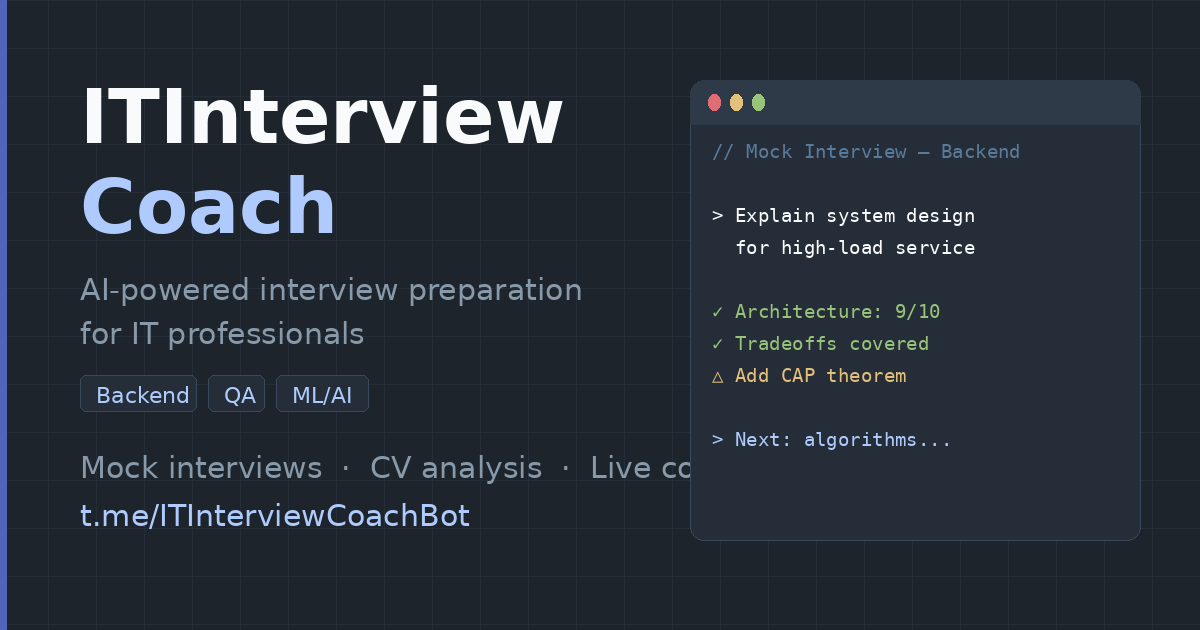
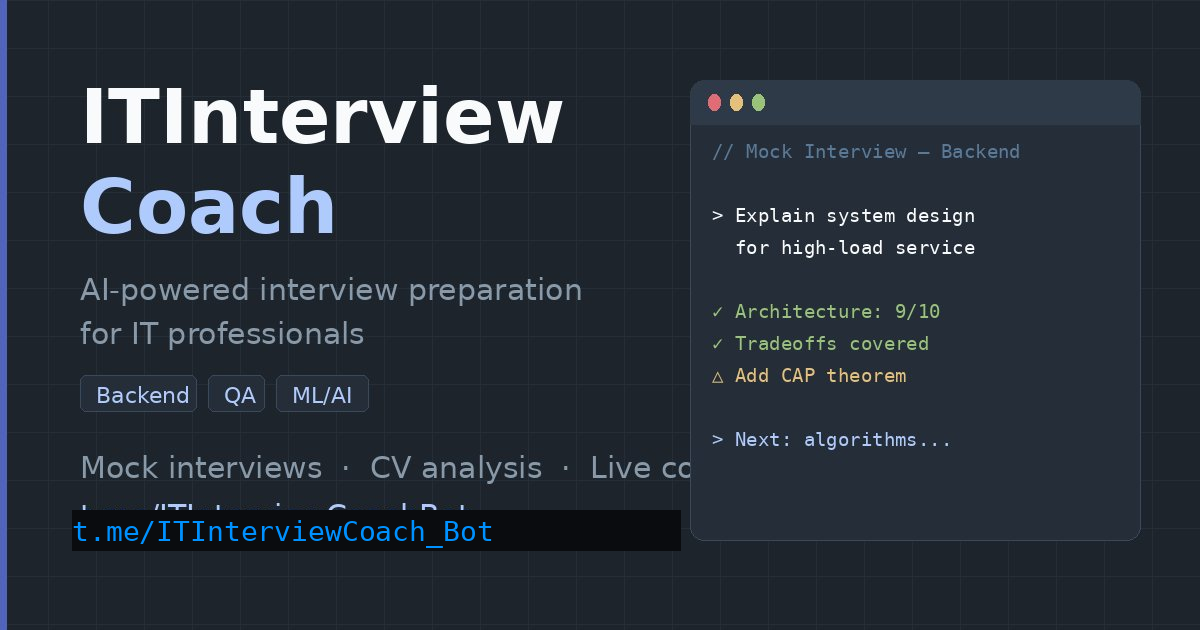
Add files via upload

diff --git a/index.html b/index.html
@@ -603,7 +603,7 @@
     A Telegram bot that prepares IT professionals for technical interviews — mock sessions, CV analysis, live coding practice, and LinkedIn auditing.
   </p>
   <div class="hero-cta">
-    <a href="https://t.me/ITInterviewCoachBot" class="btn-primary">
+    <a href="https://t.me/ITInterviewCoach_Bot" class="btn-primary">
       ▶ Start in Telegram
     </a>
     <a href="#pricing" class="btn-secondary">View Pricing</a>
@@ -704,7 +704,7 @@
         <li class="inactive">Voice input</li>
         <li class="inactive">LinkedIn audit</li>
       </ul>
-      <a href="https://t.me/ITInterviewCoachBot" class="plan-cta">Get Started</a>
+      <a href="https://t.me/ITInterviewCoach_Bot" class="plan-cta">Get Started</a>
     </div>
 
     <div class="plan">
@@ -719,7 +719,7 @@
         <li class="inactive">Voice input</li>
         <li class="inactive">LinkedIn audit</li>
       </ul>
-      <a href="https://t.me/ITInterviewCoachBot" class="plan-cta">Start Free Trial</a>
+      <a href="https://t.me/ITInterviewCoach_Bot" class="plan-cta">Start Free Trial</a>
     </div>
 
     <div class="plan featured">
@@ -735,7 +735,7 @@
         <li>Voice input (STT)</li>
         <li>LinkedIn audit</li>
       </ul>
-      <a href="https://t.me/ITInterviewCoachBot" class="plan-cta">Get Premium</a>
+      <a href="https://t.me/ITInterviewCoach_Bot" class="plan-cta">Get Premium</a>
     </div>
 </section>
 
